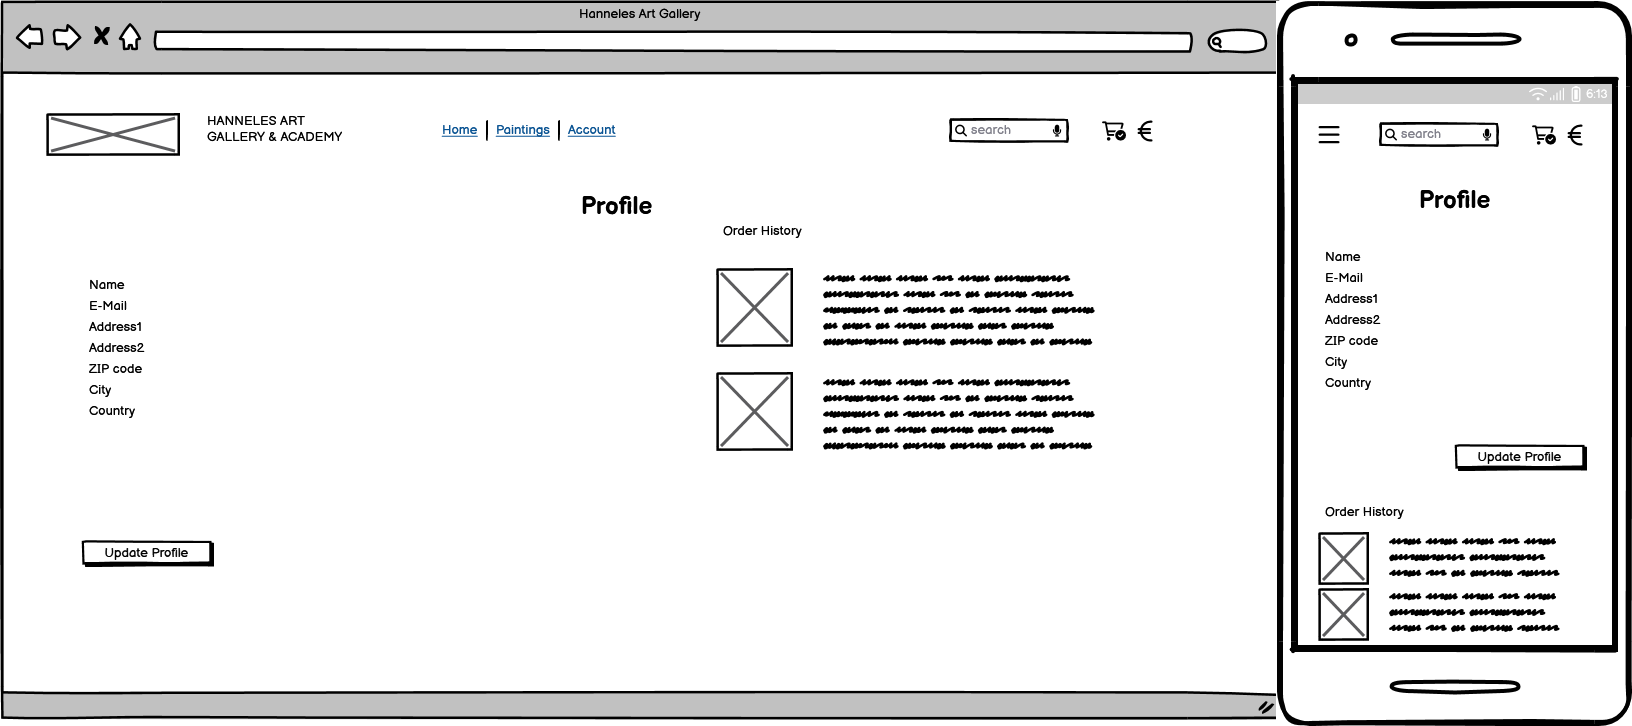
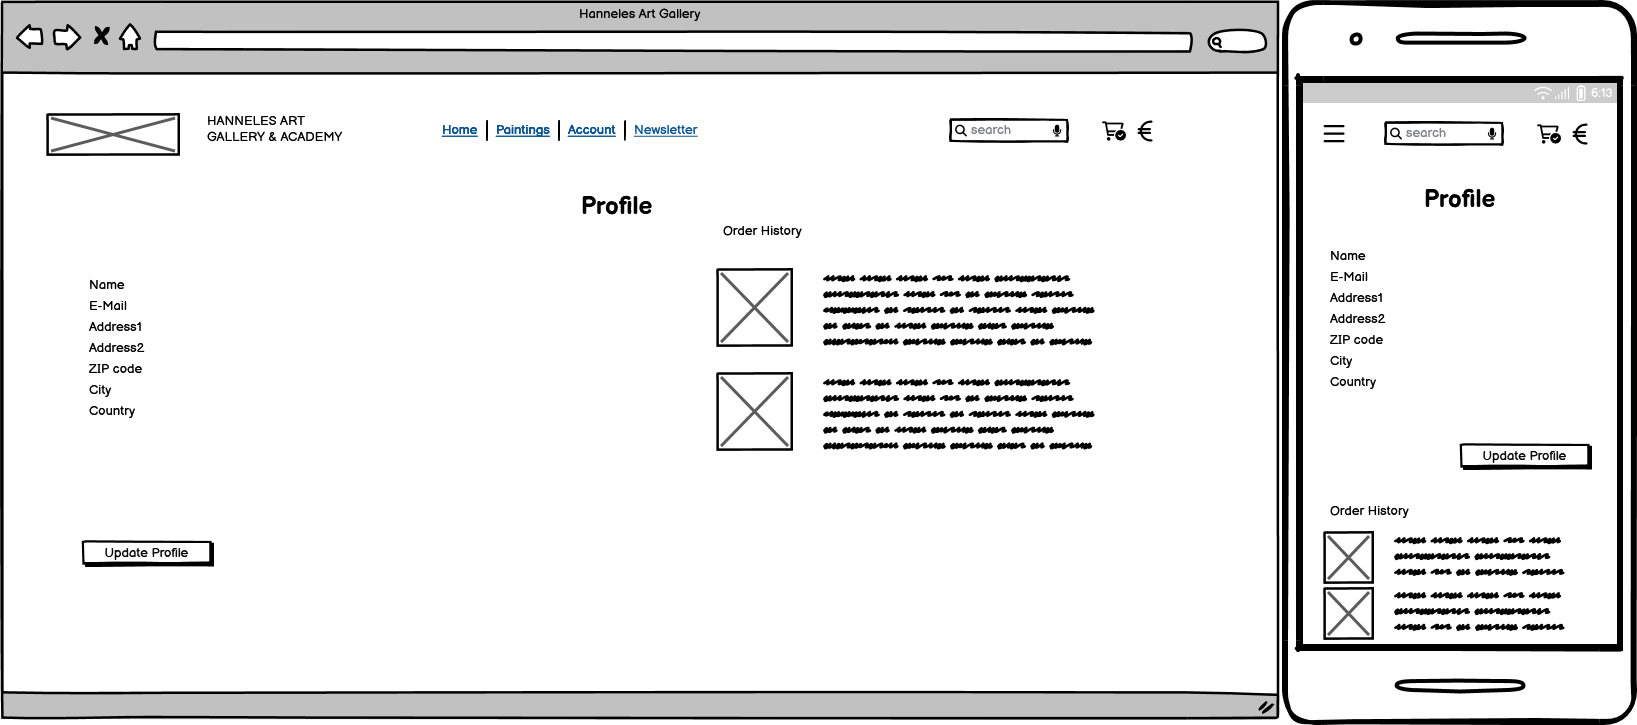
Update wireframes, python validation, erd, bug section in readme

diff --git a/README.md b/README.md
@@ -134,7 +134,7 @@ The project is open for public access and can be visited here.
 ## Relationship Diagram
 
 I have used Mermaid to auto-generate an interactive ERD for the models.
-[ERD](https://mermaid.live/edit#pako:eNqVVsFymzAQ_RWGc3JojrklNu4wceIMxu10xjOMLK3xtkIiQkrq1v[…]b3nSzDvUObDuFNZQR9asO-WpxxGi53AsaXmtl4CI0ZT122g-d5uXrP0hWyeg)
+[Live-Link to ERD](https://mermaid.live/edit#pako:eNqVVsFymzAQ_RWGc3JojrklNu4wceIMxu10xjOMLK3xtkIiQkrq1v[…]b3nSzDvUObDuFNZQR9asO-WpxxGi53AsaXmtl4CI0ZT122g-d5uXrP0hWyeg)
 
 ```mermaid
 erDiagram
@@ -228,12 +228,7 @@ erDiagram
     USERPROFILE ||--|| USER : "belongs to"
 ```
 
-OLD:
-The relationship diagram illustrates the relation between the models used in the project.
 
-NEW IMAGE
-
-![Diagram](static/readme-docs/others/Hanneles_Diagram.png)
 <hr>
 
 ## Features
@@ -405,6 +400,16 @@ Wireframes for desktop and smartphone have been created with [Balsamiq](https://
 ![Profile](static/readme-docs/wireframes/profile.png)
 
 
+### Contact us
+
+![Profile](static/readme-docs/wireframes/contact-us.png)
+
+
+### Newsletter
+
+![Profile](static/readme-docs/wireframes/newsletter.png)
+
+
 ## Technologies used
 
 ### Languages
@@ -423,6 +428,7 @@ Wireframes for desktop and smartphone have been created with [Balsamiq](https://
 - Storage: AWS S3 for storing media and static files
 - Deployment: Heroku
 
+
 ### Software and frameworks
 - [Colorlib template "Pillowmate"](https://themewagon.com/themes/free-bootstrap-4-html5-responsive-online-store-template-pillow-mart/)
 - [Bootstrap 4.6](https://getbootstrap.com/docs/4.6/getting-started/introduction/)
@@ -430,6 +436,7 @@ Wireframes for desktop and smartphone have been created with [Balsamiq](https://
 - [Favicon](https://favicon.io/)
 - [Birme](https://www.birme.net/)
 - [Snagit Editor](https://www.techsmith.com/screen-capture.html)
+- [Mermaid](https://mermaid.js.org/)
 
 
 
@@ -725,6 +732,44 @@ Details for each part can be found by clicking the expand button.
 </details>
 
 
+<details>
+
+<summary>Newsletter </summary>
+
+
+**model.py**
+![models.py](static/readme-docs/validation-python/newsletter_models.png)
+
+
+**forms.py**
+![forms.py](static/readme-docs/validation-python/newsletter_forms.png)
+
+
+**views.py**
+![views.py](static/readme-docs/validation-python/newsletter_views.png)
+
+</details>
+
+
+<details>
+
+<summary>Contact us </summary>
+
+
+**model.py**
+![models.py](static/readme-docs/validation-python/contact_models.png)
+
+
+**forms.py**
+![forms.py](static/readme-docs/validation-python/contact_forms.png)
+
+
+**views.py**
+![views.py](static/readme-docs/validation-python/contact_views.png)
+
+</details>
+
+
 ## Manual Testing
 
 As the manual testing file is too extensive to add directly here in the Readme it's saved in a separate file.
@@ -743,7 +788,9 @@ Functionality, links, layout, and responsiveness were tested with the following 
 
 ## Bugs
 
+Status February 2024:
 Unfortunately there is a bug concerning the number of times the user can add a painting into the shopping cart. This was working perfectly fine until the day before submission but one of the validation tools throw an error that an input element cannot have a min & max value so I removed it.... and now you can click a couple of times and it adds the painting each time to the cart. I'm afraid I won't be able to fix this problem before submission.
+**--> This was solved in the latest release (July 2024) by modifying the checkout view. **
 
 When a logged in user opens the Profile page and there is no saved data, it is possible to save the empty form by clicking on Update Profile. This needs to be solved by updating the form. 
 
@@ -762,11 +809,18 @@ When a logged in user opens the Profile page and there is no saved data, it is p
 
 - [Icon inside Search Input Field](https://youtu.be/3Y0_DcOYPlw?si=TOaj9_GEYQpPt2So)
 - [Reviews & star rating](https://www.youtube.com/watch?v=TIDldj2BDuY&t=428s)
+- Newsletter section:
+    - [KenBro Tech](https://www.youtube.com/watch?v=hWtlskOaFNI)
+    - [Master Code Online - Subscribe](https://www.youtube.com/watch?v=Hy94jBBgvpk)
+    - [Master Code Online - Unsubscribe](https://www.youtube.com/watch?v=q2B1VpjDjMQ)
+- [Displaying character counter](https://codepen.io/patrickwestwood/pen/gPPywv)
 
-- [stack overflow](https://stackoverflow.com/)
+- [Dtack overflow](https://stackoverflow.com/)
 - [mdn web docs_](https://developer.mozilla.org/en-US/)
 - [W3Schools](https://www.w3schools.com/)
-- Rebecca and John from Code Institute Tutor Service
+- [Django Documentation](https://docs.djangoproject.com/en/3.2/)
+- Rebecca, John, Sarah and Alan from Code Institute Tutor Service
+- Mentor Tim Nelson for great guidance and useful tips
 
 
 Special Thank to **Hannele Kaarlejärvi** who allowed me to use her paintings for the project.
